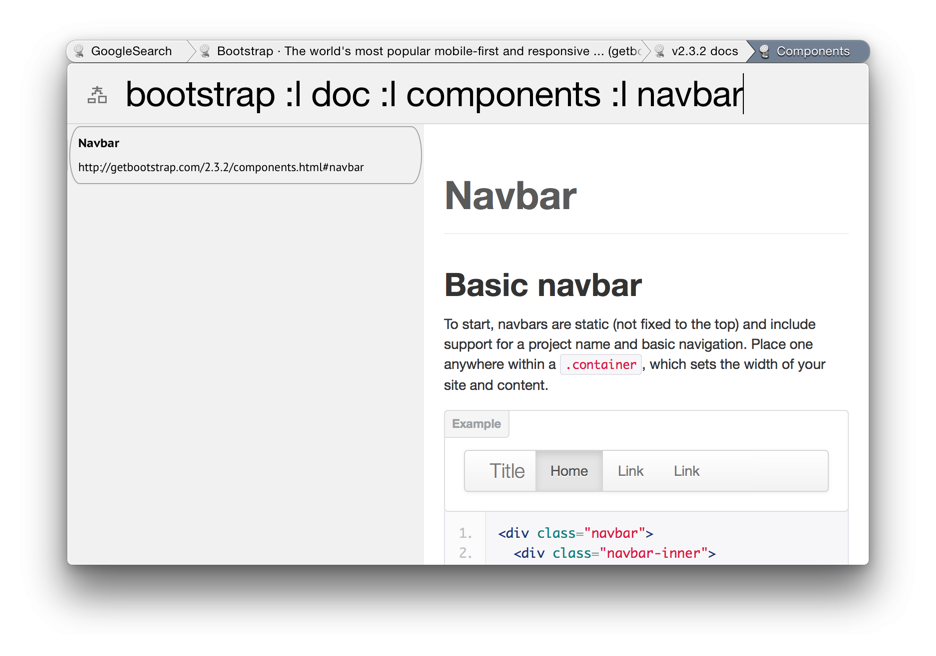
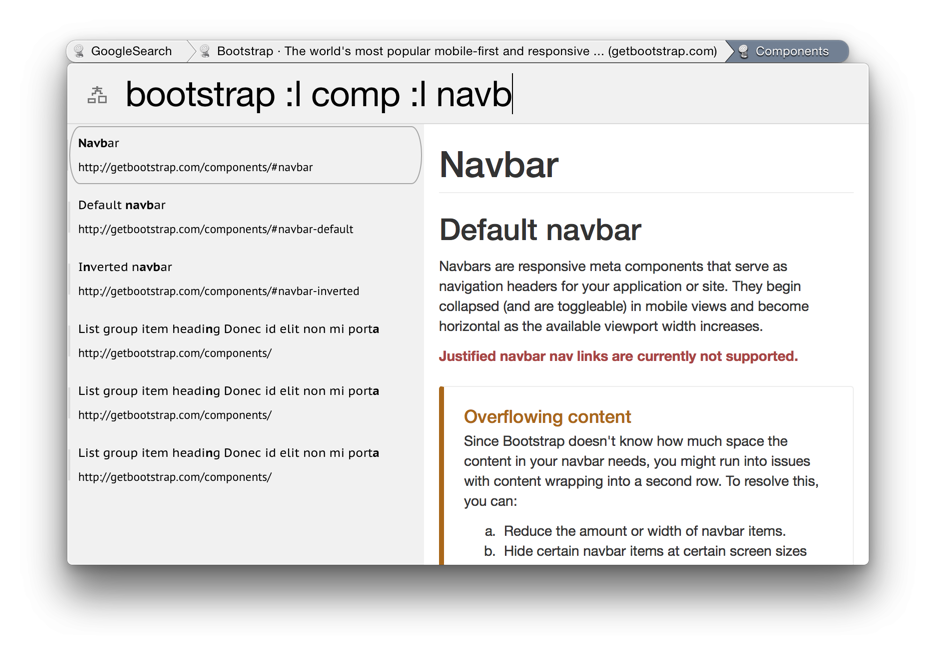
Update: docs-browsing: bootstrap image;
Fix: docs-browsing: bootstrap’s link has an apostrophe in it.

diff --git a/source/docs-browsing.md b/source/docs-browsing.md
@@ -116,7 +116,7 @@ Writing this documentation we tried many documentation sites and results were ev
 
 Lets see some awesome examples!
 
-### Reference for Twitter Bootstrap's component Navbar
+### Reference for Twitter Bootstrap component Navbar
 
 ![](/docs-browsing-resources/bootstrap-navbar-docs.png)
 
